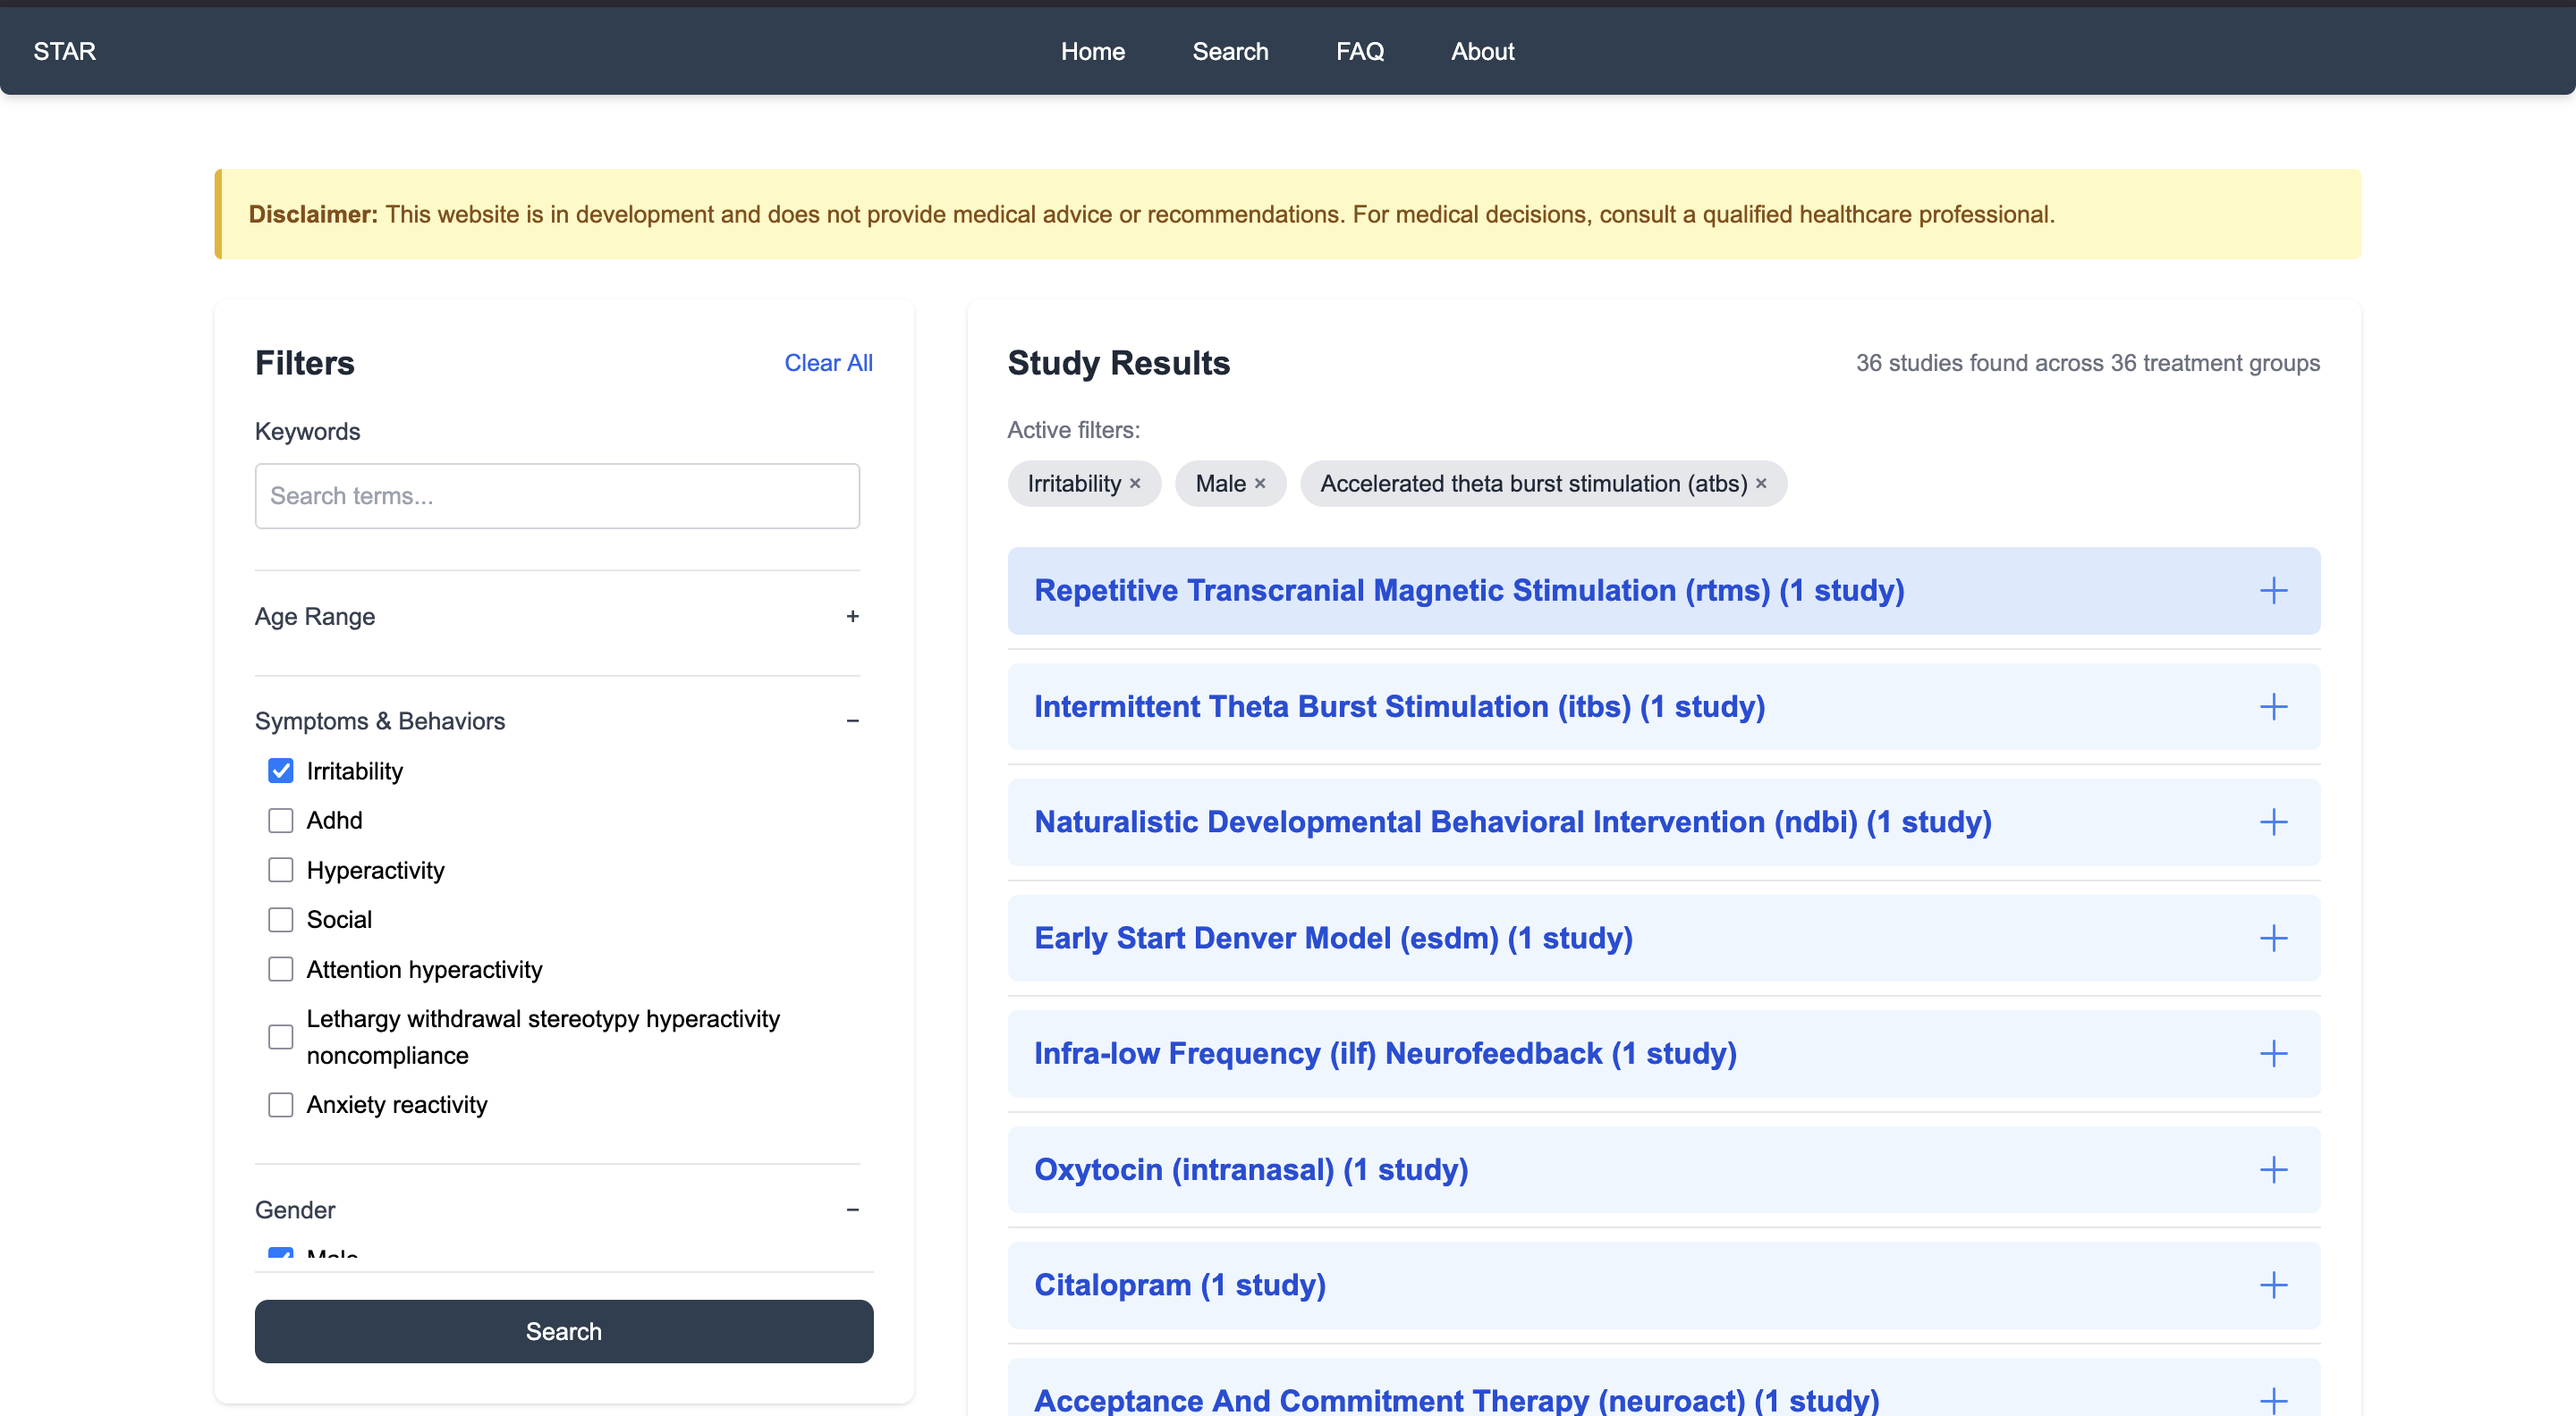
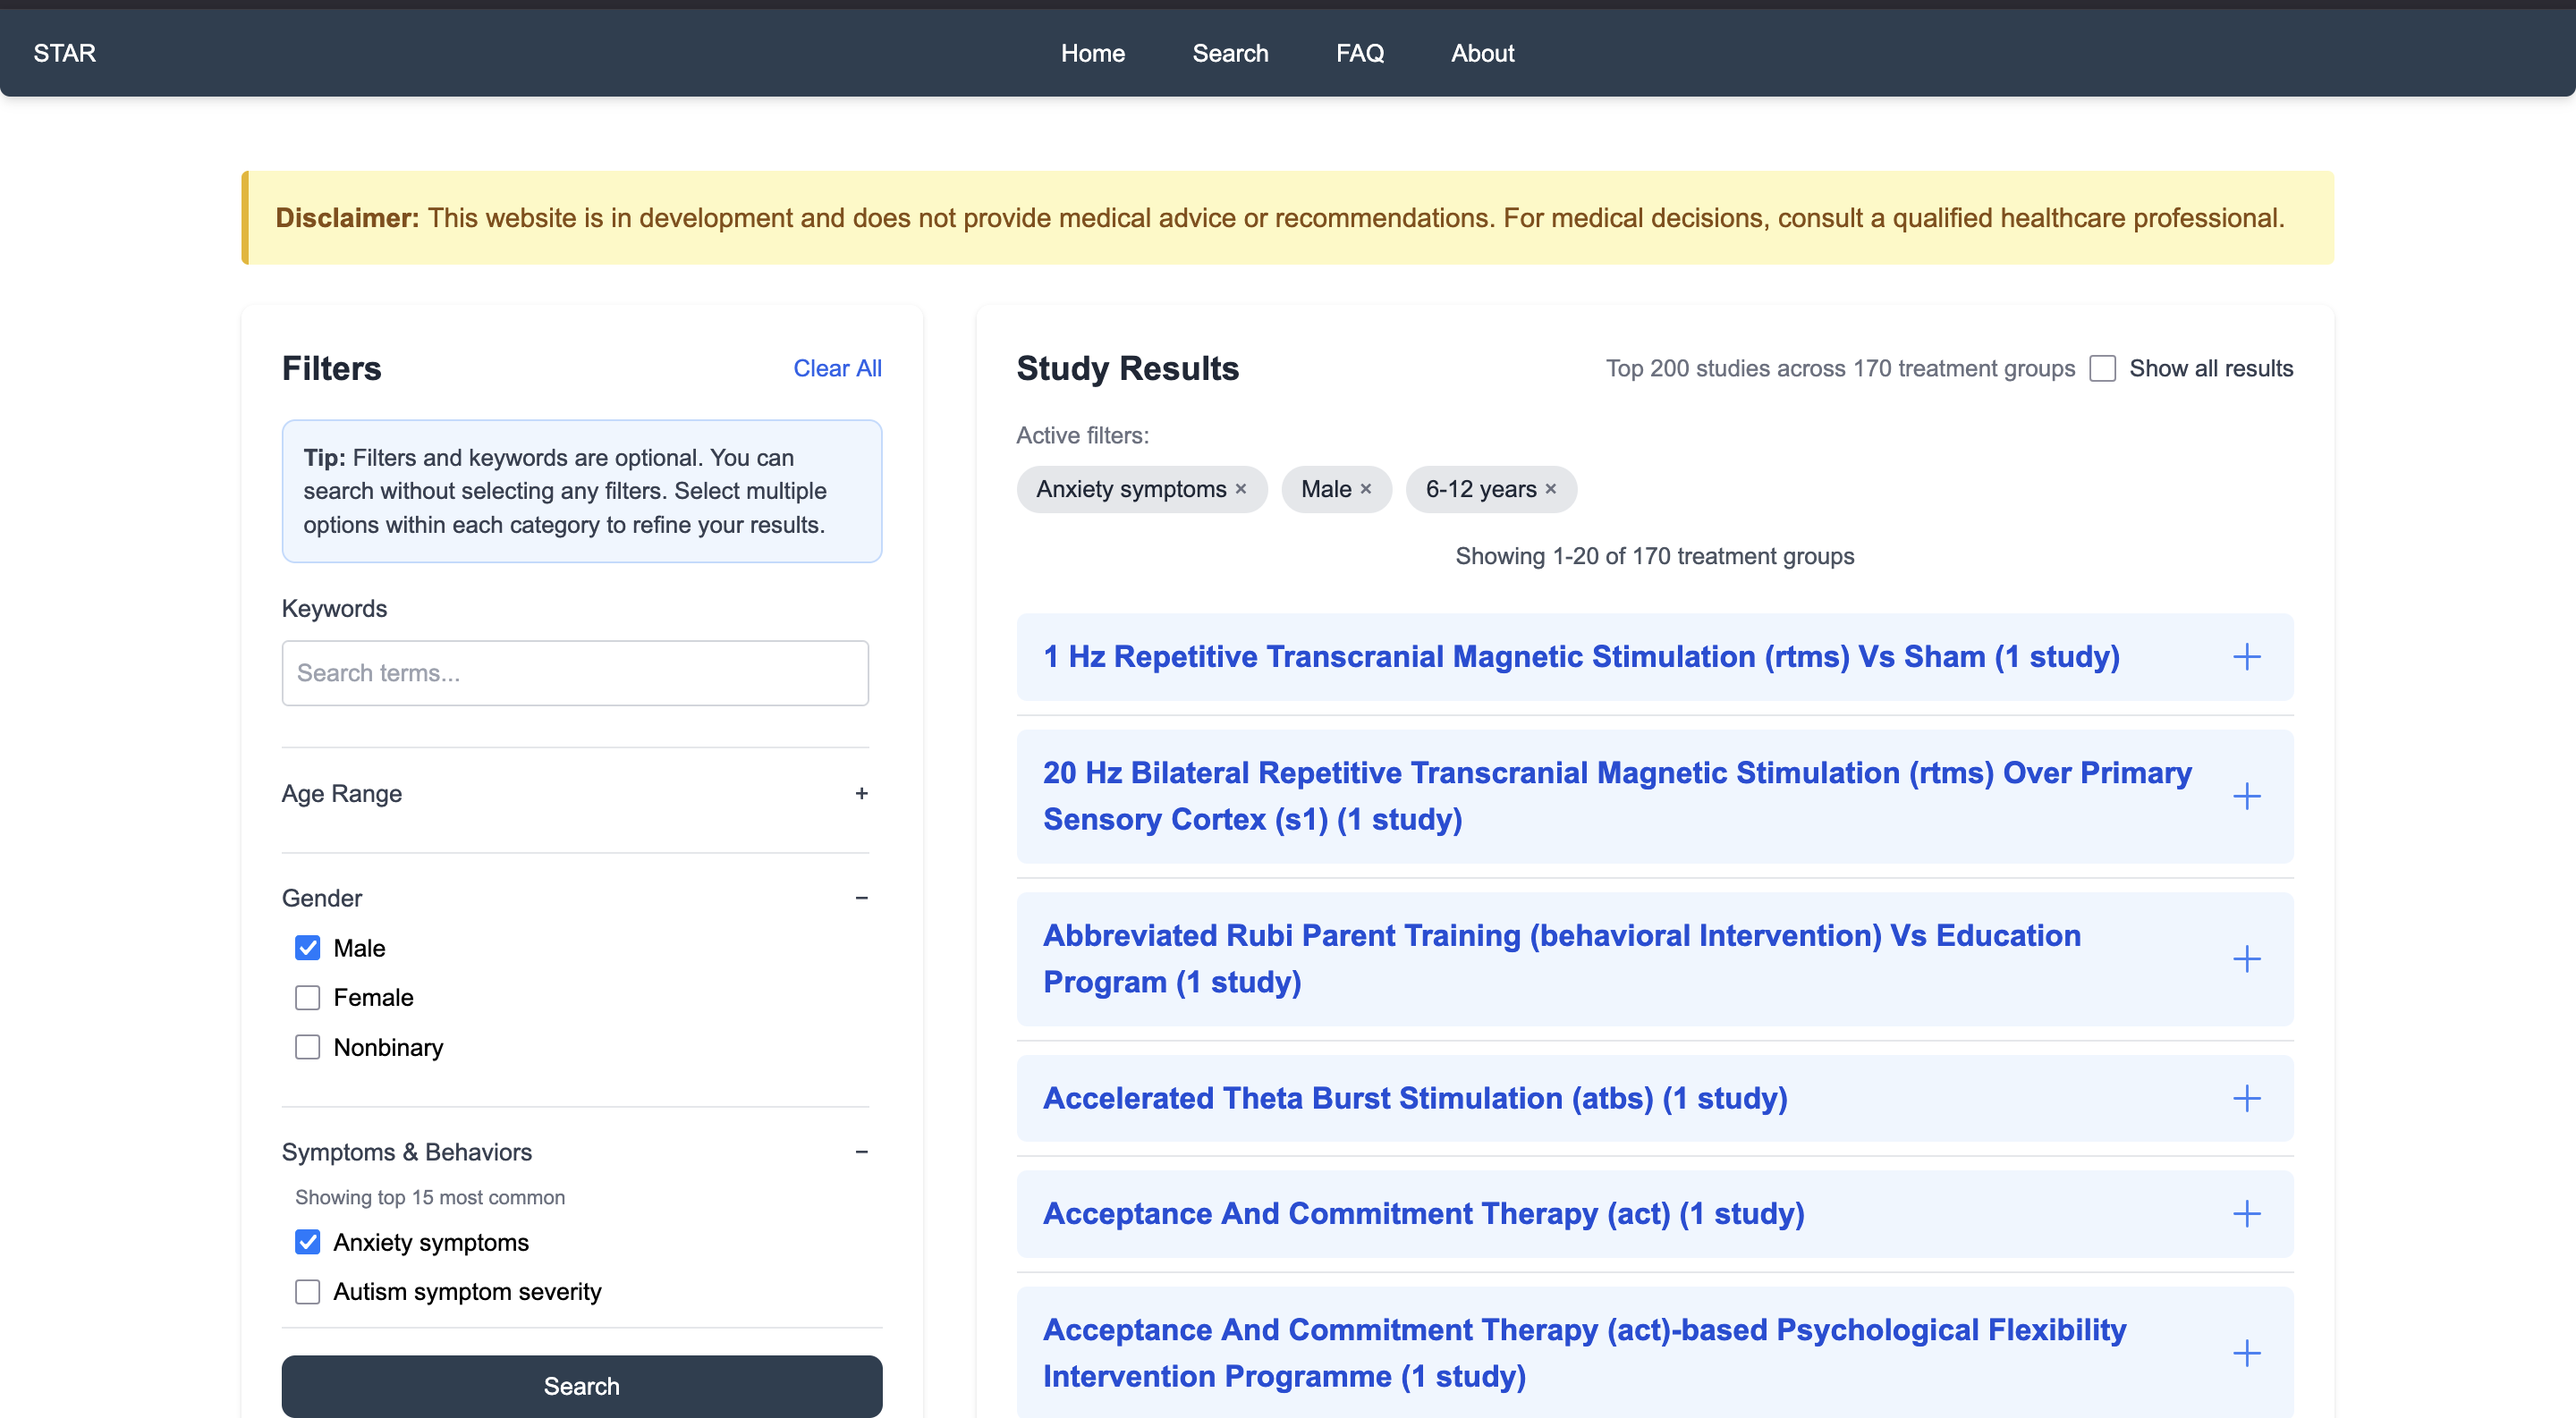
Updated user docs with updated pictures

diff --git a/mydocs/docs/users/SEARCH_GUIDE.md b/mydocs/docs/users/SEARCH_GUIDE.md
@@ -27,17 +27,17 @@ You can also include filters for your search. We have **age**, **symptoms and be
 ![Alt Text](images/search_filter.png)
 
 <figure style="max-width:120%; margin:auto;">
-  <figcaption style="text-align:center;">An example of filters applied to a search. Currently, the search is filtered by male, irritability, and the medication method of accelerated theta burst stimulation.</figcaption>
+  <figcaption style="text-align:center;">An example of filters applied to a search. Currently, the search is filtered by male, anxiety symptoms, and 6 - 12 years old.</figcaption>
 </figure>
 
 ## Most Recent Results
 
-If you feel like the studies are out-of-date, please click the **Update Database** button on the Home Page. This will update our database and help detect the most up-to-date papers. The process will take a couple of minutes, so we appreciate your patience.
+If you feel like the studies are out-of-date, please click the **Update Database** button on the Home Page. This will update our database and help detect the most up-to-date papers. The database can only be updated once per day due to the AI needing one day to finish. We appreciate your patience for the needed time.
 
 ![Alt Text](images/update_database.png)
 
 <figure style="max-width:120%; margin:auto;">
-  <figcaption style="text-align:center;">The Update Database button is highlighted on the home page with a red circle..</figcaption>
+  <figcaption style="text-align:center;">The Update Database button is highlighted on the home page with a red circle.</figcaption>
 </figure>
 
 We normally update our database once a week on Mondays, so if a paper came out after then, please feel free to update.
